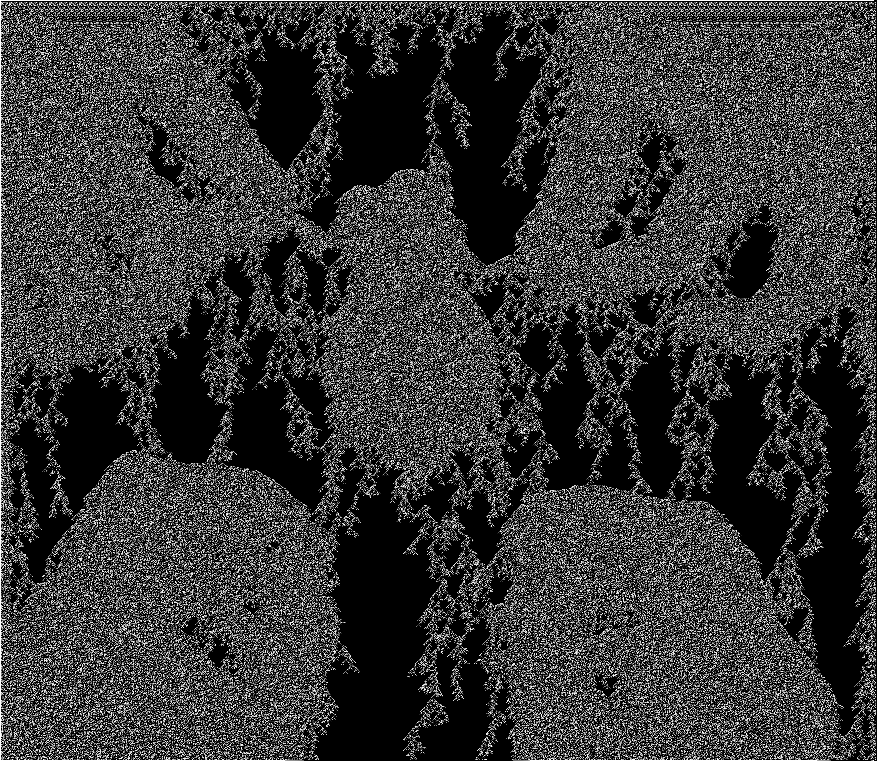
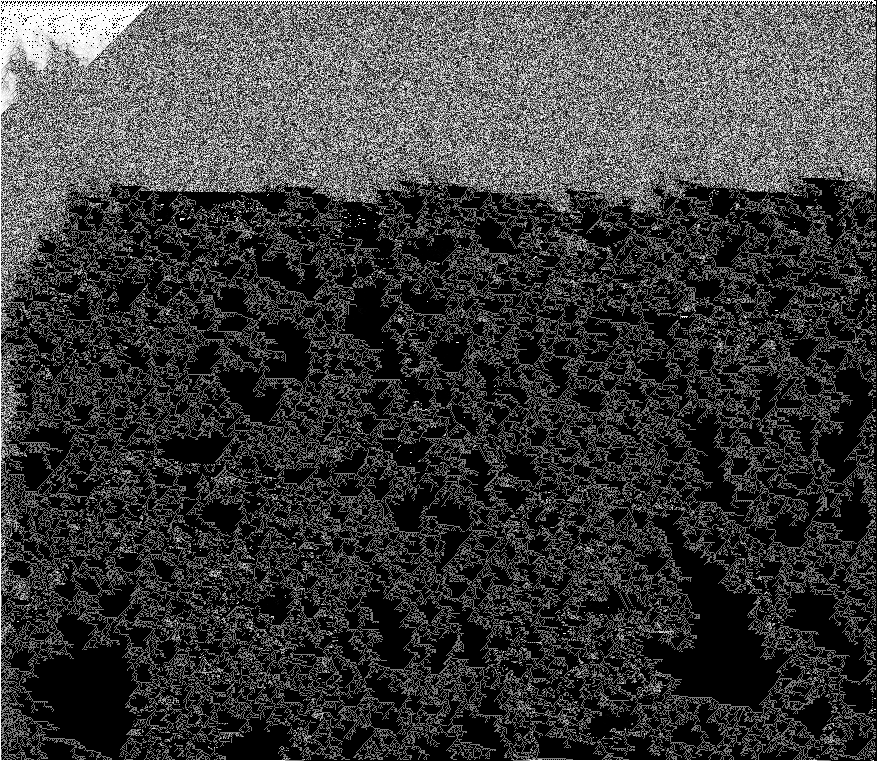
my imagination, not Sobel

diff --git a/work/main.c b/work/main.c
@@ -50,12 +50,14 @@ int main() {
     int xi, yi;
     for (i = 1; i < ih-1; i++) {
         for (j = 1; j < iw-1; j++) {
-            xi = pixels[i-1][j-1] + 2*pixels[i-1][j] + pixels[i-1][j+1];
-            xi = xi - pixels[i+1][j-1] - 2*pixels[i+1][j] - pixels[i+1][j+1];
-            yi = pixels[i-1][j-1] + 2*pixels[i][j-1] + pixels[i+1][j-1];
-            yi = yi - pixels[i-1][j+1] - 2*pixels[i][j+1] - pixels[i+1][j+1];
-            angle = yi; angle = angle/xi;
-            t = sqrt(xi*xi + yi*yi)*sin(angle)/cos(angle);
+            //xi = pixels[i-1][j-1] + 2*pixels[i-1][j] + pixels[i-1][j+1];
+            //xi = xi - pixels[i+1][j-1] - 2*pixels[i+1][j] - pixels[i+1][j+1];
+            //yi = pixels[i-1][j-1] + 2*pixels[i][j-1] + pixels[i+1][j-1];
+            //yi = yi - pixels[i-1][j+1] - 2*pixels[i][j+1] - pixels[i+1][j+1];
+            //angle = yi; angle = angle/xi;
+            //t = sqrt(xi*xi + yi*yi)*sin(angle)/cos(angle);
+            t = pixels[i-1][j-1]+pixels[i-1][j]-pixels[i-1][j+1]-pixels[i][j+1]+pixels[i+1][j+1]+pixels[i+1][j];
+            t = t-pixels[i+1][j-1]-pixels[i][j-1];
             pixels[i][j] = fabs(t);
             //MyImage[i*ih+j] = pixels[i][j];
         }
